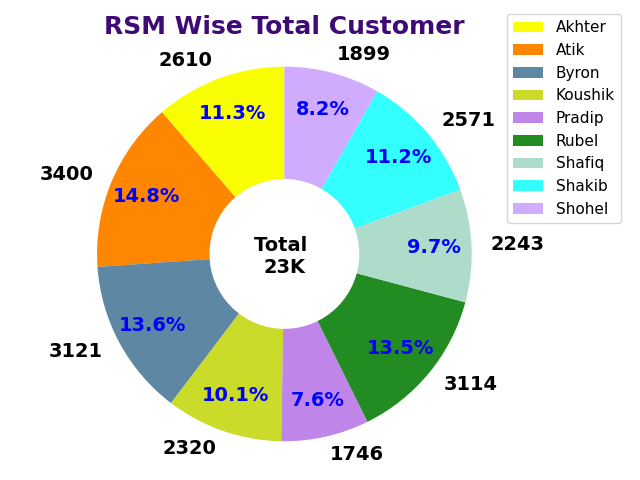
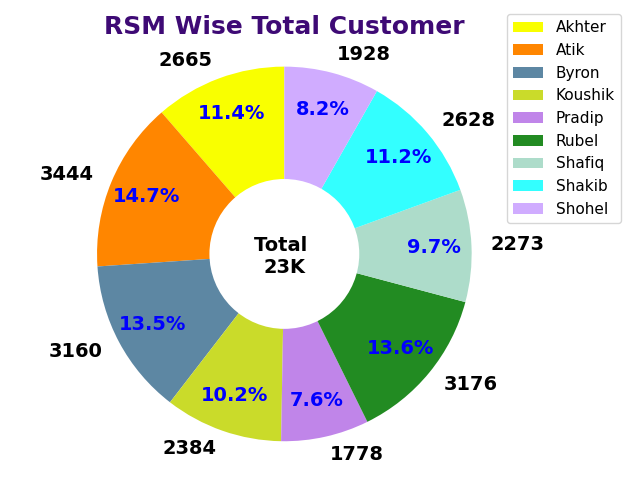
add mytest file

diff --git a/YstSalesRSMwise.py b/YstSalesRSMwise.py
@@ -1,0 +1,79 @@
+import pandas as pd
+import pyodbc as db
+import numpy as np
+from matplotlib import pyplot as plt
+
+connection = db.connect('DRIVER={SQL Server};'
+                        'SERVER=137.116.139.217;'
+                        'DATABASE=ARCHND;'
+                        'UID=sa;PWD=erp@123')
+
+query = """
+
+declare @todate varchar(8) = 20200831 --CONVERT(varchar(8), dateAdd(day,0,getdate()), 112)
+declare @ystdate varchar(8) = 20200830 --CONVERT(varchar(8), dateAdd(day,-1,getdate()), 112)
+declare @date varchar(6) = 202008 --CONVERT(varchar(6), dateAdd(day,0,getdate()), 112)
+
+select RSMNAME, right(transdate, 2) as transdate, YstSales/1000 as YstSales from 
+(select RSMTR, transdate, SUM(EXTINVMISC) as YstSales from OESALESDETAILS
+where transtype =1 and left(TRANSDATE,6) = @date and TRANSDATE <> @todate and RSMTR is not null and RSMTR <> '0' and RSMTR <> 'ZREGION'
+group by RSMTR, transdate) as t1
+left join
+(select DISTINCT RSMTR, RSMNAME from V_RFieldForce
+where YEARMONTH = @date and RSMTR not like '%INS%') as t2
+on t1.RSMTR=t2.RSMTR
+where RSMNAME is not null
+order by RSMNAME ASC, TRANSDATE asc
+
+
+"""
+data = pd.read_sql_query(query, connection)
+print(data)
+akhterdf = data[data['RSMNAME'] == 'Akhter']
+Atikdf = data[data['RSMNAME'] == 'Atik']
+Byrondf = data[data['RSMNAME'] == 'Byron']
+Koushikdf = data[data['RSMNAME'] == 'Koushik']
+Pradipdf = data[data['RSMNAME'] == 'Pradip']
+Rubeldf = data[data['RSMNAME'] == 'Rubel']
+Shafiqdf = data[data['RSMNAME'] == 'Shafiq']
+Shakibdf = data[data['RSMNAME'] == 'Shakib']
+Shoheldf = data[data['RSMNAME'] == 'Shohel']
+
+fig, ax = plt.subplots(figsize=(16, 8))
+
+line1 = ax.plot(akhterdf['transdate'].tolist(), akhterdf['YstSales'].tolist(), color='red', marker='o', label='Akhter')
+line2 = ax.plot(Atikdf['transdate'].tolist(), Atikdf['YstSales'].tolist(), color='blue', marker='*', label='Atik')
+line3 = ax.plot(Byrondf['transdate'].tolist(), Byrondf['YstSales'].tolist(), color='yellow', marker='s', label='Byrond')
+line4 = ax.plot(Koushikdf['transdate'].tolist(), Koushikdf['YstSales'].tolist(), color='#d46d57', marker='p', label='Koushik')
+line5 = ax.plot(Pradipdf['transdate'].tolist(), Pradipdf['YstSales'].tolist(), color='#88c200', marker='1', label='Pradip')
+line6 = ax.plot(Rubeldf['transdate'].tolist(), Rubeldf['YstSales'].tolist(), color='#3c67a8', marker='p', label='Rubel')
+line7 = ax.plot(Shafiqdf['transdate'].tolist(), Shafiqdf['YstSales'].tolist(), color='#9da83c', marker='D', label='Shafiq')
+line8 = ax.plot(Shakibdf['transdate'].tolist(), Shakibdf['YstSales'].tolist(), color='#47dd07', marker='H', label='Shakib')
+line9 = ax.plot(Shoheldf['transdate'].tolist(), Shoheldf['YstSales'].tolist(), color='#a83c8f', marker='v', label='Shohel')
+
+
+ax.legend(loc='best')
+plt.xlabel("Date", color='black', fontsize=14, fontweight='bold')
+plt.ylabel("Sales in Thousands", color='black', fontsize=14, fontweight='bold')
+
+plt.xticks(fontsize=12, fontweight='bold')
+plt.yticks(fontsize=12, fontweight='bold')
+plt.title('RSM MTD Sales', fontweight='bold', color='#3e0a75',  fontsize=18)
+
+# for a, b in zip(x, y):
+#     plt.text(a, b, str(b) + 'K', ha='center', va='bottom')
+
+# for a, b in zip(x, z):
+#     plt.text(a, b, str(b) + 'K', ha='center', va='bottom')
+
+print('complete')
+plt.tight_layout()
+plt.savefig('rsm_mtd_sales.png')
+plt.show()
+
+
+# # # Area chart ------- using seaborn
+# plt.fill_between(akhterdf['transdate'].tolist(), akhterdf['YstSales'].tolist(), color="red", alpha=0.3, label='akhter')
+# plt.fill_between(Atikdf['transdate'].tolist(), Atikdf['YstSales'].tolist(), color='green', label='Atik', alpha=.4)
+# plt.legend(loc='Best')
+# plt.show()

diff --git a/FinalProjectSendMail.py b/FinalProjectSendMail.py
@@ -6,17 +6,17 @@ from email.mime.text import MIMEText
 # ------------ Group email ----------------------------------------
 msgRoot = MIMEMultipart('related')
 me = 'erp-bi.service@transcombd.com'
-to = ['rejaul.islam@transcombd.com', '']
-cc = ['biswas@transcombd.com', 'yakub@transcombd.com']
-bcc = ['ekbal.kanon@transcombd.com', '']
-# to = ['ekbal.kanon@transcombd.com', '']
-# cc = ['', '']
-# bcc = ['', '']
+# to = ['rejaul.islam@transcombd.com', '']
+# cc = ['biswas@transcombd.com', 'yakub@transcombd.com']
+# bcc = ['ekbal.kanon@transcombd.com', '']
+to = ['roseline@transcombd.com', '']
+cc = ['ekbal.kanon@transcombd.com', '']
+bcc = ['', '']
 
 
 recipient = to + cc + bcc
 
-subject = "Submit My Final project related to AHD-Stock"
+subject = "Submit My project related to AHD-Chemist Analysis"
 
 email_server_host = 'mail.transcombd.com'
 port = 25
@@ -35,15 +35,14 @@ msgRoot.attach(msg)
 # msgAlternative.attach(msgText)
 
 msgText = MIMEText("""
-<b>Dear Royel,</b> <br>
-<p>After my training session my assigned task(AHD-Stock related) for final project has been completed.</p>
+<b>Dear Apu,</b> <br>
+<p>My task(AHD-Chemist Analysis) for email automation project by python has been completed.</p>
                        
 <img src="cid:img1">
 <img src="cid:img2">
 <img src="cid:img3">
 <img src="cid:img4">
-<img src="cid:img5">
-<img src="cid:img6">
+
 
 <b>Thanks, </b> <br>
 Md. Alhama Ekbal Kanon <br>
@@ -52,41 +51,41 @@ Md. Alhama Ekbal Kanon <br>
 msg.attach(msgText)
 
 # --------- Set Credit image in mail -----------------------
-img = open('D:/Python/New training/Day2/day_2/T1.png', 'rb')
+img = open('D:/Python/New training/Day2/day_2/TT&CC.png', 'rb')
 img1 = MIMEImage(img.read())
 img.close()
 img1.add_header('Content-ID', '<img1>')
 msgRoot.attach(img1)
 
-img = open('D:/Python/New training/Day2/day_2/T2.png', 'rb')
+img = open('D:/Python/New training/Day2/day_2/CC&INV.png', 'rb')
 img2 = MIMEImage(img.read())
 img.close()
 img2.add_header('Content-ID', '<img2>')
 msgRoot.attach(img2)
 
-img = open('D:/Python/New training/Day2/day_2/T3(AminAtik).png', 'rb')
+img = open('D:/Python/New training/Day2/day_2/RTN&White.png', 'rb')
 img3 = MIMEImage(img.read())
 img.close()
 img3.add_header('Content-ID', '<img3>')
 msgRoot.attach(img3)
 
-img = open('D:/Python/New training/Day2/day_2/T3(AnwarhossainKamrulahsan).png', 'rb')
+img = open('D:/Python/New training/Day2/day_2/rsm_mtd_sales.png', 'rb')
 img4 = MIMEImage(img.read())
 img.close()
 img4.add_header('Content-ID', '<img4>')
 msgRoot.attach(img4)
-
-img = open('D:/Python/New training/Day2/day_2/T3(HafizWhite).png', 'rb')
-img5 = MIMEImage(img.read())
-img.close()
-img5.add_header('Content-ID', '<img5>')
-msgRoot.attach(img5)
-
-img = open('D:/Python/New training/Day2/day_2/T4.png', 'rb')
-img6 = MIMEImage(img.read())
-img.close()
-img6.add_header('Content-ID', '<img6>')
-msgRoot.attach(img6)
+#
+# img = open('D:/Python/New training/Day2/day_2/T3(HafizWhite).png', 'rb')
+# img5 = MIMEImage(img.read())
+# img.close()
+# img5.add_header('Content-ID', '<img5>')
+# msgRoot.attach(img5)
+#
+# img = open('D:/Python/New training/Day2/day_2/T4.png', 'rb')
+# img6 = MIMEImage(img.read())
+# img.close()
+# img6.add_header('Content-ID', '<img6>')
+# msgRoot.attach(img6)
 
 
 

diff --git a/Assignment4.py b/Assignment4.py
@@ -17,33 +17,36 @@ select top 10 AUDTORG,
 cast(SUM(case when LEFT(TRANSDATE,6) = @ThisMonth then EXTINVMISC END)/1000000 as  decimal(10,2)) as ThisMonthSales,
 cast(SUM(case when LEFT(TRANSDATE,6) = @lastmnth then EXTINVMISC END)/1000000 as  decimal(10,2)) as LastMonthSales
 from OESalesDetails
-group by AUDTORG"""
+group by AUDTORG
+"""
 data = pd.read_sql_query(query, connection)
 
-x = data['AUDTORG'].tolist()
-y = data['ThisMonthSales'].tolist()
-z = data['LastMonthSales'].tolist()
-# print(x)
-# print(y)
-# print(z)
-fig, ax = plt.subplots()
 
-ax.plot(x, y, color='red', marker='o')
-ax.plot(x, z, color='blue', marker='o')
-ax.legend(labels=('This Month', 'Last Month'), loc='best')
-plt.xlabel("Branch Name", color='black', fontsize=14, fontweight='bold')
 
-plt.ylabel("Sales", color='black', fontsize=14, fontweight='bold')
-plt.yticks(np.arange(0, 21, 5))
-plt.title('Line chart', fontweight='bold', color='#3e0a75',  fontsize=18)
-
-for a, b in zip(x, y):
-    plt.text(a, b, str(b) + 'K', ha='center', va='bottom')
-
-for a, b in zip(x, z):
-    plt.text(a, b, str(b) + 'K', ha='center', va='bottom')
-
-print('complete')
-plt.tight_layout()
-# plt.savefig('task.png')
-plt.show()
+# x = data['AUDTORG'].tolist()
+# y = data['ThisMonthSales'].tolist()
+# z = data['LastMonthSales'].tolist()
+# # print(x)
+# # print(y)
+# # print(z)
+# fig, ax = plt.subplots()
+#
+# ax.plot(x, y, color='red', marker='o')
+# ax.plot(x, z, color='blue', marker='o')
+# ax.legend(labels=('This Month', 'Last Month'), loc='best')
+# plt.xlabel("Branch Name", color='black', fontsize=14, fontweight='bold')
+#
+# plt.ylabel("Sales", color='black', fontsize=14, fontweight='bold')
+# plt.yticks(np.arange(0, 21, 5))
+# plt.title('Line chart', fontweight='bold', color='#3e0a75',  fontsize=18)
+#
+# for a, b in zip(x, y):
+#     plt.text(a, b, str(b) + 'K', ha='center', va='bottom')
+#
+# for a, b in zip(x, z):
+#     plt.text(a, b, str(b) + 'K', ha='center', va='bottom')
+#
+# print('complete')
+# plt.tight_layout()
+# # plt.savefig('task.png')
+# plt.show()

diff --git a/Total Chemist RSM wise.py b/Total Chemist RSM wise.py
@@ -42,8 +42,8 @@ data = x['TotalCust'].tolist()
 # data = [A, B]
 total = data[0] + data[1] + data[2] + data[3] + data[4] + data[5] + data[6] + data[7] + data[8]
 total = 'Total \n' + str(convert(total))
-print(data)
-print(total)
+# print(data)
+# print(total)
 
 colors = ['#f9ff00', '#ff8600', '#5d87a3', '#cadb2a', '#c085e9', '#228b22', '#addcca'
     , '#33ffff', '#d0acff']
@@ -62,7 +62,7 @@ legend_element = [Patch(facecolor='#f9ff00', label='Akhter'),
 # B = convert(data[1])
 # Data_label = [A, B]
 
-fig, ax = plt.subplots()
+fig, ax = plt.subplots(figsize=(6.4, 4.8))
 pack_all, label, percent_value = ax.pie(data, labels=data, colors=colors,
                                         autopct='%.1f%%',
                                         textprops={
@@ -80,4 +80,5 @@ ax.axis('equal')
 plt.legend(handles=legend_element, loc='best', fontsize=11, bbox_to_anchor=[0.9, 1.10])
 plt.tight_layout()
 plt.savefig('TotalChemistRsmWise.png')
-# plt.show()
+plt.show()
+print('Complete')

diff --git a/YstRetCount.py b/YstRetCount.py
@@ -4,7 +4,6 @@ import numpy as np
 from matplotlib import pyplot as plt
 
 connection = db.connect('DRIVER={SQL Server};'
-                        # 'SERVER=10.168.2.164;'
                         'SERVER=137.116.139.217;'
                         'DATABASE=ARCHND;'
                         'UID=sa;PWD=erp@123')
@@ -48,7 +47,7 @@ def thousand_K_number_decorator(number):
 
 bar_index = np.arange(len(day1_sale))
 
-fig, ax = plt.subplots(figsize=(12, 4.8))
+fig, ax = plt.subplots(figsize=(6.4, 4.8))
 
 opacity = 1
 
@@ -73,6 +72,6 @@ plt.title('Yesterday Return Count RSM Wise', fontsize=18, fontweight='bold')
 plt.xticks(bar_index, x)
 plt.yticks(np.arange(0, max(day1_sale) + 5, 2))
 plt.tight_layout()
-# plt.savefig('T2.png')
+plt.savefig('Yst_rtn_RSMwise.png')
 print('Complete')
-plt.show()
+# plt.show()

diff --git a/Total CC rsm wise.py b/Total CC rsm wise.py
@@ -67,7 +67,7 @@ legend_element = [Patch(facecolor='#f9ff00', label='Akhter'),
 # B = convert(data[1])
 # Data_label = [A, B]
 
-fig, ax = plt.subplots()
+fig, ax = plt.subplots(figsize=(6.4, 4.8))
 pack_all, label, percent_value = ax.pie(data, labels=data, colors=colors,
                                         autopct='%.1f%%',
                                         textprops={
@@ -84,5 +84,5 @@ plt.title('RSM Wise Covered Customer', fontsize=18, fontweight='bold', color='#3
 ax.axis('equal')
 plt.legend(handles=legend_element, loc='best', fontsize=11, bbox_to_anchor=[0.9, 1.10])
 plt.tight_layout()
-# plt.savefig('TotalChemistRsmWise.png')
+plt.savefig('TotalCoveredChemistRsmWise.png')
 plt.show()

diff --git a/FinalProjectImageJoin.py b/FinalProjectImageJoin.py
@@ -1,12 +1,12 @@
 from PIL import Image
 
-img1 = Image.open("D:/Python/New training/Day2/day_2/T3(Anwarhossain).png")
-img2 = Image.open("D:/Python/New training/Day2/day_2/T3(Kamrulahsan).png")
+img1 = Image.open("D:/Python/New training/Day2/day_2/Yst_rtn_RSMwise.png")
+img2 = Image.open("D:/Python/New training/Day2/day_2/WhiteBackground.jpg")
 
 width, height = img1.size
 imageSize = Image.new('RGB', (1280, 480))
 imageSize.paste(img1, (0, 0))
 imageSize.paste(img2, (width, 0))
 
-imageSize.save("T3(AnwarhossainKamrulahsan).png")
+imageSize.save("RTN&White.png")
 print("Two Image Join Success")

diff --git a/YstInvCount.py b/YstInvCount.py
@@ -48,7 +48,7 @@ def thousand_K_number_decorator(number):
 
 bar_index = np.arange(len(day1_sale))
 
-fig, ax = plt.subplots(figsize=(12, 4.8))
+fig, ax = plt.subplots(figsize=(6.4, 4.8))
 
 opacity = 1
 
@@ -73,6 +73,6 @@ plt.title('Yesterday Invoice Count RSM Wise', fontsize=18, fontweight='bold')
 plt.xticks(bar_index, x)
 plt.yticks(np.arange(0, max(day1_sale) + 25, 25))
 plt.tight_layout()
-# plt.savefig('T2.png')
+plt.savefig('Yst_INV_RSMwise.png')
 print('Complete')
-plt.show()
+# plt.show()

diff --git a/YstCocCustomerRSMwise.py b/YstCocCustomerRSMwise.py
@@ -48,7 +48,7 @@ def thousand_K_number_decorator(number):
 
 bar_index = np.arange(len(day1_sale))
 
-fig, ax = plt.subplots(figsize=(12, 4.8))
+fig, ax = plt.subplots(figsize=(6.4, 4.8))
 
 opacity = 1
 
@@ -73,6 +73,6 @@ plt.title('Yesterday Covered Customer RSM Wise', fontsize=18, fontweight='bold')
 plt.xticks(bar_index, x)
 plt.yticks(np.arange(0, max(day1_sale) + 10, 25))
 plt.tight_layout()
-# plt.savefig('T2.png')
+plt.savefig('YstCC_RSMwise.png')
 print('Complete')
 plt.show()
